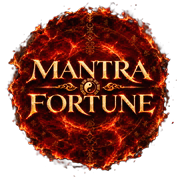
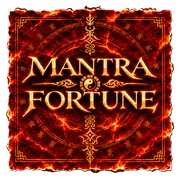
/report/ 로고를 사각 불꽃 한지 로고로 다시 교체(머리줄·커버·탭·홈 화면 아이콘·공유 미리보기·공유 카드·PDF 표지), 캐시 버전 20261120-sq

diff --git a/report/index.html b/report/index.html
@@ -4,14 +4,14 @@
 <meta charset="utf-8">
 <meta name="viewport" content="width=device-width, initial-scale=1">
 <title>내 이야기의 시작 · 만트라 사주 무빙툰</title>
-<link rel="icon" type="image/png" sizes="64x64" href="/report/brand/favicon-64.png?v=20261120-fire">
-<link rel="apple-touch-icon" href="/report/brand/apple-touch-icon.png?v=20261120-fire">
-<meta property="og:image" content="https://mantrafortune.com/report/brand/og-image.jpg?v=20261120-fire">
+<link rel="icon" type="image/png" sizes="64x64" href="/report/brand/favicon-64.png?v=20261120-sq">
+<link rel="apple-touch-icon" href="/report/brand/apple-touch-icon.png?v=20261120-sq">
+<meta property="og:image" content="https://mantrafortune.com/report/brand/og-image.jpg?v=20261120-sq">
 <meta property="og:image:width" content="1200">
 <meta property="og:image:height" content="630">
 <meta property="og:image:alt" content="만트라 포춘 MANTRA FORTUNE 로고">
 <meta name="twitter:card" content="summary_large_image">
-<meta name="twitter:image" content="https://mantrafortune.com/report/brand/og-image.jpg?v=20261120-fire">
+<meta name="twitter:image" content="https://mantrafortune.com/report/brand/og-image.jpg?v=20261120-sq">
 <meta name="description" content="내 사주를 읽고 보는 이야기로. 기질과 관계, 일과 돈, 인생의 흐름을 무빙툰으로 체험하세요.">
 <meta property="og:title" content="내 이야기의 시작 · 만트라 사주 무빙툰">
 <meta property="og:description" content="사람마다 잘되는 시기가 다릅니다. 나의 기질과 올해의 흐름을 확인해 보세요.">
@@ -386,7 +386,7 @@ footer { padding: 70px 0 60px; color: var(--ink-3); font-size: .76rem; text-alig
   <script>/* 통합 첫 화면은 관리자가 열 때까지 숨김(functions/_gateway.js) — 열려 있을 때만 이 링크를 보여 준다. 자리는 그대로 두어 머리줄 배치가 흔들리지 않게 */
     (function () { try { fetch('/api/community/status', { cache: 'no-store' }).then(function (r) { return r.ok ? r.json() : null; }).then(function (d) { if (!d || d.gateway !== true) return; var a = document.getElementById('gateLink'); if (a) { a.style.visibility = ''; a.removeAttribute('tabindex'); a.removeAttribute('aria-hidden'); } }).catch(function () { }); } catch (e) { } })();
   </script>
-  <span class="brand" id="brandName"><img class="brand-mark" src="/report/brand/logo-320.webp?v=20261120-fire" alt="" width="320" height="320" decoding="async"><span>만트라 포춘</span></span>
+  <span class="brand" id="brandName"><img class="brand-mark" src="/report/brand/logo-320.webp?v=20261120-sq" alt="" width="320" height="320" decoding="async"><span>만트라 포춘</span></span>
   <span class="r"><button type="button" id="skipLink">바로 분석하기</button></span>
 </header>
 <button type="button" id="autoBtn" hidden>⏸ 멈추기</button>

diff --git a/report/hub/index.html b/report/hub/index.html
@@ -4,14 +4,14 @@
 <meta charset="utf-8">
 <meta name="viewport" content="width=device-width, initial-scale=1, viewport-fit=cover">
 <title>운명의 이야기 · 만트라 포춘</title>
-<link rel="icon" type="image/png" sizes="64x64" href="/report/brand/favicon-64.png?v=20261120-fire">
-<link rel="apple-touch-icon" href="/report/brand/apple-touch-icon.png?v=20261120-fire">
-<meta property="og:image" content="https://mantrafortune.com/report/brand/og-image.jpg?v=20261120-fire">
+<link rel="icon" type="image/png" sizes="64x64" href="/report/brand/favicon-64.png?v=20261120-sq">
+<link rel="apple-touch-icon" href="/report/brand/apple-touch-icon.png?v=20261120-sq">
+<meta property="og:image" content="https://mantrafortune.com/report/brand/og-image.jpg?v=20261120-sq">
 <meta property="og:image:width" content="1200">
 <meta property="og:image:height" content="630">
 <meta property="og:image:alt" content="만트라 포춘 MANTRA FORTUNE 로고">
 <meta name="twitter:card" content="summary_large_image">
-<meta name="twitter:image" content="https://mantrafortune.com/report/brand/og-image.jpg?v=20261120-fire">
+<meta name="twitter:image" content="https://mantrafortune.com/report/brand/og-image.jpg?v=20261120-sq">
 <meta name="description" content="무료 타로 한 장으로 시작해 오늘의 운세, 나의 일주, 인생의 흐름까지 직접 눌러보며 만나는 사주 콘텐츠.">
 <meta property="og:title" content="운명의 이야기 · 만트라 포춘">
 <meta property="og:description" content="카드 한 장 뽑고, 오늘의 흐름과 나의 일주를 확인해 보세요.">
@@ -35,7 +35,7 @@
 <div class="glow" aria-hidden="true"></div>
 <header class="top" id="top">
   <button type="button" class="tb" id="tbBack" aria-label="뒤로">‹</button>
-  <a class="brand" href="#/" aria-label="허브 처음으로"><img class="brand-mark" src="/report/brand/logo-320.webp?v=20261120-fire" alt="" width="320" height="320" decoding="async"><span>만트라 포춘</span></a>
+  <a class="brand" href="#/" aria-label="허브 처음으로"><img class="brand-mark" src="/report/brand/logo-320.webp?v=20261120-sq" alt="" width="320" height="320" decoding="async"><span>만트라 포춘</span></a>
   <a class="tb tr" href="/report/" id="tbLanding">처음 화면</a>
 </header>
 <main id="screen" tabindex="-1" aria-live="polite"></main>

diff --git a/report/v2/pdf.js b/report/v2/pdf.js
@@ -81,7 +81,7 @@
     var cov1 = rep.chapters[0] || {};
     // 1 표지
     var kw = [sd.dayMaster.el + ' 기운', sd.dominantGroup + ' 중심', sd.strength.band].concat(sd.sewoon && sd.sewoon.season ? ['올해 ' + S[sd.sewoon.season]] : []);
-    out.push('<div class="pg" style="--c:' + color + '"><div class="cov"><img class="lg" src="/report/brand/logo-320.webp?v=20261120-fire" alt="MANTRA FORTUNE"><div class="k">MANTRA FORTUNE · 사주 무빙툰</div><h1>' + (who ? esc(who) + '님의<br>' : '') + '인생 사용설명서</h1><p>' + esc(sd.dayPillar.ko) + '일주 · ' + esc(sd.dayPillar.hanja) + '</p><div class="t">' + kw.slice(0, 4).map(function (k) { return '<span>' + esc(k) + '</span>'; }).join('') + '</div><p style="margin-top:46px;font-size:12px">' + esc(cov1.headline || '') + '</p><p style="margin-top:90px;font-size:10.5px">' + new Date().getFullYear() + ' · 이 리포트는 사주 구조를 바탕으로 한 참고용 콘텐츠입니다</p></div></div>'); n++;
+    out.push('<div class="pg" style="--c:' + color + '"><div class="cov"><img class="lg" src="/report/brand/logo-320.webp?v=20261120-sq" alt="MANTRA FORTUNE"><div class="k">MANTRA FORTUNE · 사주 무빙툰</div><h1>' + (who ? esc(who) + '님의<br>' : '') + '인생 사용설명서</h1><p>' + esc(sd.dayPillar.ko) + '일주 · ' + esc(sd.dayPillar.hanja) + '</p><div class="t">' + kw.slice(0, 4).map(function (k) { return '<span>' + esc(k) + '</span>'; }).join('') + '</div><p style="margin-top:46px;font-size:12px">' + esc(cov1.headline || '') + '</p><p style="margin-top:90px;font-size:10.5px">' + new Date().getFullYear() + ' · 이 리포트는 사주 구조를 바탕으로 한 참고용 콘텐츠입니다</p></div></div>'); n++;
     // 2 나의 사주
     var P = sd.pillars, cell = function (k, l) { var p = P[k]; return '<td>' + (p ? '<div style="font-size:21px;font-family:\'Noto Serif KR\',serif">' + esc(p.hanja) + '</div><div style="color:#6B6A63;font-size:11px">' + esc(p.ko) + '</div>' : '<span style="color:#9A978A">시간 모름</span>') + '</td>'; };
     var tg = function (k) { var p = P[k]; return '<td>' + (p ? esc((p.stemTG || '') + ' / ' + (p.branchTG || '')) : '-') + '</td>'; };

diff --git a/report/story/story.js b/report/story/story.js
@@ -695,7 +695,7 @@
     if (!cv || cv.show === false) { el.hidden = true; el.innerHTML = ''; return; }
     var url = media(cv.src), alt = pick(cv.alt) || '';
     // 2026-11-20 로고(MANTRA FORTUNE): 커버 이미지가 없을 때만 빛무리 가운데(cover.logo:false 로 끈다). 이미지가 있으면 로고 없음
-    var logoOn = cv.logo !== false, logo = function (cls) { return '<img class="' + cls + '" src="/report/brand/logo-640.webp?v=20261120-fire" alt="만트라 포춘 MANTRA FORTUNE" width="640" height="640" decoding="async" fetchpriority="high">'; };
+    var logoOn = cv.logo !== false, logo = function (cls) { return '<img class="' + cls + '" src="/report/brand/logo-640.webp?v=20261120-sq" alt="만트라 포춘 MANTRA FORTUNE" width="640" height="640" decoding="async" fetchpriority="high">'; };
     var img = url ? '<img class="cv-img" src="' + esc(url) + '" alt="' + esc(alt) + '" decoding="async" fetchpriority="high">' : '<div class="cv-glow" role="img" aria-label="' + esc(alt) + '"></div>' + (logoOn ? logo('cv-logo') : '');
     function an(v) { return /^(float|glow|both|pulse|sway|shimmer)$/.test(v) ? ' an-' + v : ''; }
     // 등장 효과: 안쪽 span(.cv-ti)에 걸어 바깥의 지속 효과(float·glow 등)와 겹치지 않게 한다
@@ -728,7 +728,7 @@
   function meta() { // 이름·탭 제목·공유 설명
     var S1 = C.settings || {}, skip = document.getElementById('skipLink'), bn = document.getElementById('brandName');
     cover();
-    if (bn) bn.innerHTML = '<img class="brand-mark" src="/report/brand/logo-320.webp?v=20261120-fire" alt="" width="320" height="320" decoding="async"><span>' + esc(S1.brandName || '').split(String.fromCharCode(10)).join('<br>') + '</span>';   // 2026-11-20 로고 표시
+    if (bn) bn.innerHTML = '<img class="brand-mark" src="/report/brand/logo-320.webp?v=20261120-sq" alt="" width="320" height="320" decoding="async"><span>' + esc(S1.brandName || '').split(String.fromCharCode(10)).join('<br>') + '</span>';   // 2026-11-20 로고 표시
     if (root.Ambient) root.Ambient.apply(S1.ambient);
     if (skip) {
       var sl = S1.skipLink || {};

diff --git a/report/v2/index.html b/report/v2/index.html
@@ -4,14 +4,14 @@
 <meta charset="utf-8">
 <meta name="viewport" content="width=device-width, initial-scale=1, viewport-fit=cover">
 <title>運路 · 만트라 사주 무빙툰</title>
-<link rel="icon" type="image/png" sizes="64x64" href="/report/brand/favicon-64.png?v=20261120-fire">
-<link rel="apple-touch-icon" href="/report/brand/apple-touch-icon.png?v=20261120-fire">
-<meta property="og:image" content="https://mantrafortune.com/report/brand/og-image.jpg?v=20261120-fire">
+<link rel="icon" type="image/png" sizes="64x64" href="/report/brand/favicon-64.png?v=20261120-sq">
+<link rel="apple-touch-icon" href="/report/brand/apple-touch-icon.png?v=20261120-sq">
+<meta property="og:image" content="https://mantrafortune.com/report/brand/og-image.jpg?v=20261120-sq">
 <meta property="og:image:width" content="1200">
 <meta property="og:image:height" content="630">
 <meta property="og:image:alt" content="만트라 포춘 MANTRA FORTUNE 로고">
 <meta name="twitter:card" content="summary_large_image">
-<meta name="twitter:image" content="https://mantrafortune.com/report/brand/og-image.jpg?v=20261120-fire">
+<meta name="twitter:image" content="https://mantrafortune.com/report/brand/og-image.jpg?v=20261120-sq">
 <meta name="description" content="사주를 입력하면 내 운이 흐르는 길을 한 편의 영화처럼 — 타고난 명(命)부터 10년마다 달라지는 운, 움직일 때와 준비할 때까지 이어집니다.">
 <meta name="theme-color" content="#080A11">
 <meta name="robots" content="noindex">

diff --git a/report/newyear/index.html b/report/newyear/index.html
@@ -4,14 +4,14 @@
 <meta charset="utf-8">
 <meta name="viewport" content="width=device-width, initial-scale=1, viewport-fit=cover">
 <title>2027 정미년 토정비결 신년운세 · 만트라</title>
-<link rel="icon" type="image/png" sizes="64x64" href="/report/brand/favicon-64.png?v=20261120-fire">
-<link rel="apple-touch-icon" href="/report/brand/apple-touch-icon.png?v=20261120-fire">
-<meta property="og:image" content="https://mantrafortune.com/report/brand/og-image.jpg?v=20261120-fire">
+<link rel="icon" type="image/png" sizes="64x64" href="/report/brand/favicon-64.png?v=20261120-sq">
+<link rel="apple-touch-icon" href="/report/brand/apple-touch-icon.png?v=20261120-sq">
+<meta property="og:image" content="https://mantrafortune.com/report/brand/og-image.jpg?v=20261120-sq">
 <meta property="og:image:width" content="1200">
 <meta property="og:image:height" content="630">
 <meta property="og:image:alt" content="만트라 포춘 MANTRA FORTUNE 로고">
 <meta name="twitter:card" content="summary_large_image">
-<meta name="twitter:image" content="https://mantrafortune.com/report/brand/og-image.jpg?v=20261120-fire">
+<meta name="twitter:image" content="https://mantrafortune.com/report/brand/og-image.jpg?v=20261120-sq">
 <meta name="description" content="토정비결 괘(규장각본 원문)와 사주로 읽는 2027 정미년 — 총운, 재물·직업·인연·건강, 음력 12개월, 결정적 시기와 행동 지침.">
 <meta name="theme-color" content="#0B0710">
 <meta name="robots" content="noindex">

diff --git a/report/legal/products.html b/report/legal/products.html
@@ -4,14 +4,14 @@
 <meta charset="utf-8">
 <meta name="viewport" content="width=device-width,initial-scale=1">
 <title>상품 안내 · 만트라 사주 무빙툰</title>
-<link rel="icon" type="image/png" sizes="64x64" href="/report/brand/favicon-64.png?v=20261120-fire">
-<link rel="apple-touch-icon" href="/report/brand/apple-touch-icon.png?v=20261120-fire">
-<meta property="og:image" content="https://mantrafortune.com/report/brand/og-image.jpg?v=20261120-fire">
+<link rel="icon" type="image/png" sizes="64x64" href="/report/brand/favicon-64.png?v=20261120-sq">
+<link rel="apple-touch-icon" href="/report/brand/apple-touch-icon.png?v=20261120-sq">
+<meta property="og:image" content="https://mantrafortune.com/report/brand/og-image.jpg?v=20261120-sq">
 <meta property="og:image:width" content="1200">
 <meta property="og:image:height" content="630">
 <meta property="og:image:alt" content="만트라 포춘 MANTRA FORTUNE 로고">
 <meta name="twitter:card" content="summary_large_image">
-<meta name="twitter:image" content="https://mantrafortune.com/report/brand/og-image.jpg?v=20261120-fire">
+<meta name="twitter:image" content="https://mantrafortune.com/report/brand/og-image.jpg?v=20261120-sq">
 <link rel="stylesheet" href="legal.css">
 <style>
   .grid { display: grid; gap: 12px; margin: 12px 0; }

diff --git a/report/story/index.html b/report/story/index.html
@@ -1,10 +1,10 @@
 <!doctype html>
 <html lang="ko"><head><meta charset="utf-8"><title>만트라 사주 무빙툰</title><meta http-equiv="refresh" content="0; url=/report/"><script>location.replace("/report/" + location.search);</script></head><body></body></html>
-<link rel="icon" type="image/png" sizes="64x64" href="/report/brand/favicon-64.png?v=20261120-fire">
-<link rel="apple-touch-icon" href="/report/brand/apple-touch-icon.png?v=20261120-fire">
-<meta property="og:image" content="https://mantrafortune.com/report/brand/og-image.jpg?v=20261120-fire">
+<link rel="icon" type="image/png" sizes="64x64" href="/report/brand/favicon-64.png?v=20261120-sq">
+<link rel="apple-touch-icon" href="/report/brand/apple-touch-icon.png?v=20261120-sq">
+<meta property="og:image" content="https://mantrafortune.com/report/brand/og-image.jpg?v=20261120-sq">
 <meta property="og:image:width" content="1200">
 <meta property="og:image:height" content="630">
 <meta property="og:image:alt" content="만트라 포춘 MANTRA FORTUNE 로고">
 <meta name="twitter:card" content="summary_large_image">
-<meta name="twitter:image" content="https://mantrafortune.com/report/brand/og-image.jpg?v=20261120-fire">
+<meta name="twitter:image" content="https://mantrafortune.com/report/brand/og-image.jpg?v=20261120-sq">

diff --git a/report/auth-return.html b/report/auth-return.html
@@ -5,8 +5,8 @@
 <meta name="viewport" content="width=device-width, initial-scale=1">
 <meta name="robots" content="noindex, nofollow">
 <title>로그인 중 · 만트라</title>
-<link rel="icon" type="image/png" sizes="64x64" href="/report/brand/favicon-64.png?v=20261120-fire">
-<link rel="apple-touch-icon" href="/report/brand/apple-touch-icon.png?v=20261120-fire">
+<link rel="icon" type="image/png" sizes="64x64" href="/report/brand/favicon-64.png?v=20261120-sq">
+<link rel="apple-touch-icon" href="/report/brand/apple-touch-icon.png?v=20261120-sq">
 <!-- 로그인 돌아오는 곳(인연의 광장 등 /report/ 밖 화면용).
      Supabase 로그인(카카오·구글)은 돌아올 주소가 /report/** 로만 등록돼 있어서, /report/ 아래 이 페이지로 돌아와 세션을 받은 뒤 원래 화면(to)으로 보낸다.
      · 카카오(Supabase): 주소의 ?code= 를 supabase-js 가 세션으로 바꾼다(PKCE — 같은 사이트 저장소의 확인 값 사용)

diff --git a/report/my/index.html b/report/my/index.html
@@ -5,8 +5,8 @@
 <meta name="viewport" content="width=device-width,initial-scale=1">
 <meta name="robots" content="noindex">
 <title>내 구매 내역 · 만트라 사주 무빙툰</title>
-<link rel="icon" type="image/png" sizes="64x64" href="/report/brand/favicon-64.png?v=20261120-fire">
-<link rel="apple-touch-icon" href="/report/brand/apple-touch-icon.png?v=20261120-fire">
+<link rel="icon" type="image/png" sizes="64x64" href="/report/brand/favicon-64.png?v=20261120-sq">
+<link rel="apple-touch-icon" href="/report/brand/apple-touch-icon.png?v=20261120-sq">
 <link rel="stylesheet" href="/report/legal/legal.css">
 <style>
   .who { display: flex; justify-content: space-between; gap: 10px; align-items: center; flex-wrap: wrap; color: var(--ink-2); font-size: 14px; margin: 0 0 14px; }

diff --git a/report/v2/sharecard.js b/report/v2/sharecard.js
@@ -23,7 +23,7 @@
   }
   function loadImg(u) { return new Promise(function (res) { if (!u) return res(null); var i = new Image(); i.crossOrigin = 'anonymous'; i.onload = function () { res(i); }; i.onerror = function () { res(null); }; i.src = u; }); }
 
-  var LOGO = '/report/brand/logo-320.webp?v=20261120-fire';   // 2026-11-20 로고(못 불러오면 예전 글자)
+  var LOGO = '/report/brand/logo-320.webp?v=20261120-sq';   // 2026-11-20 로고(못 불러오면 예전 글자)
   function draw(cv, d, img, logo) {
     cv.width = W; cv.height = H; var x = cv.getContext('2d'), p = PAL[d.el] || PAL['수'];
     var g = x.createLinearGradient(0, 0, 0, H); g.addColorStop(0, '#070913'); g.addColorStop(.45, p[0]); g.addColorStop(1, '#05060d'); x.fillStyle = g; x.fillRect(0, 0, W, H);

diff --git a/report/legal/privacy.html b/report/legal/privacy.html
@@ -4,8 +4,8 @@
 <meta charset="utf-8">
 <meta name="viewport" content="width=device-width,initial-scale=1">
 <title>개인정보처리방침 · 만트라 사주 무빙툰</title>
-<link rel="icon" type="image/png" sizes="64x64" href="/report/brand/favicon-64.png?v=20261120-fire">
-<link rel="apple-touch-icon" href="/report/brand/apple-touch-icon.png?v=20261120-fire">
+<link rel="icon" type="image/png" sizes="64x64" href="/report/brand/favicon-64.png?v=20261120-sq">
+<link rel="apple-touch-icon" href="/report/brand/apple-touch-icon.png?v=20261120-sq">
 <link rel="stylesheet" href="legal.css">
 </head>
 <body data-legal-footer>
